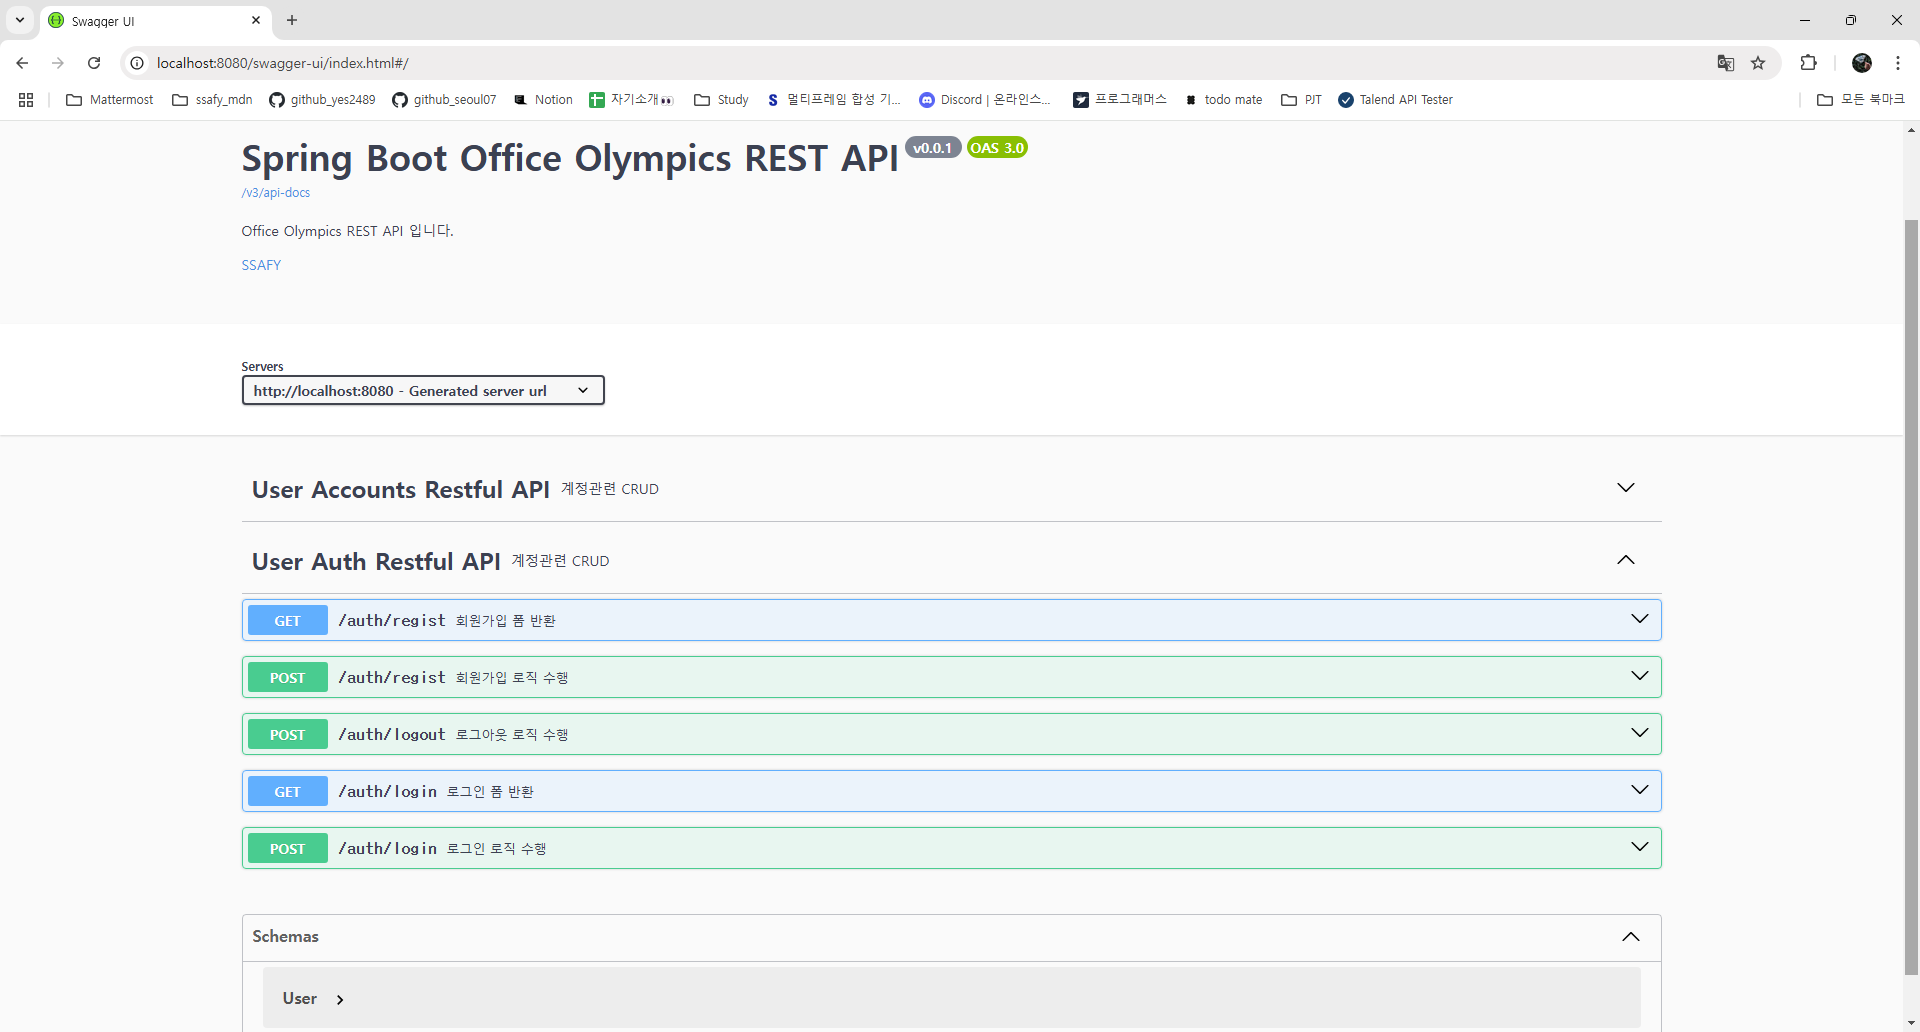
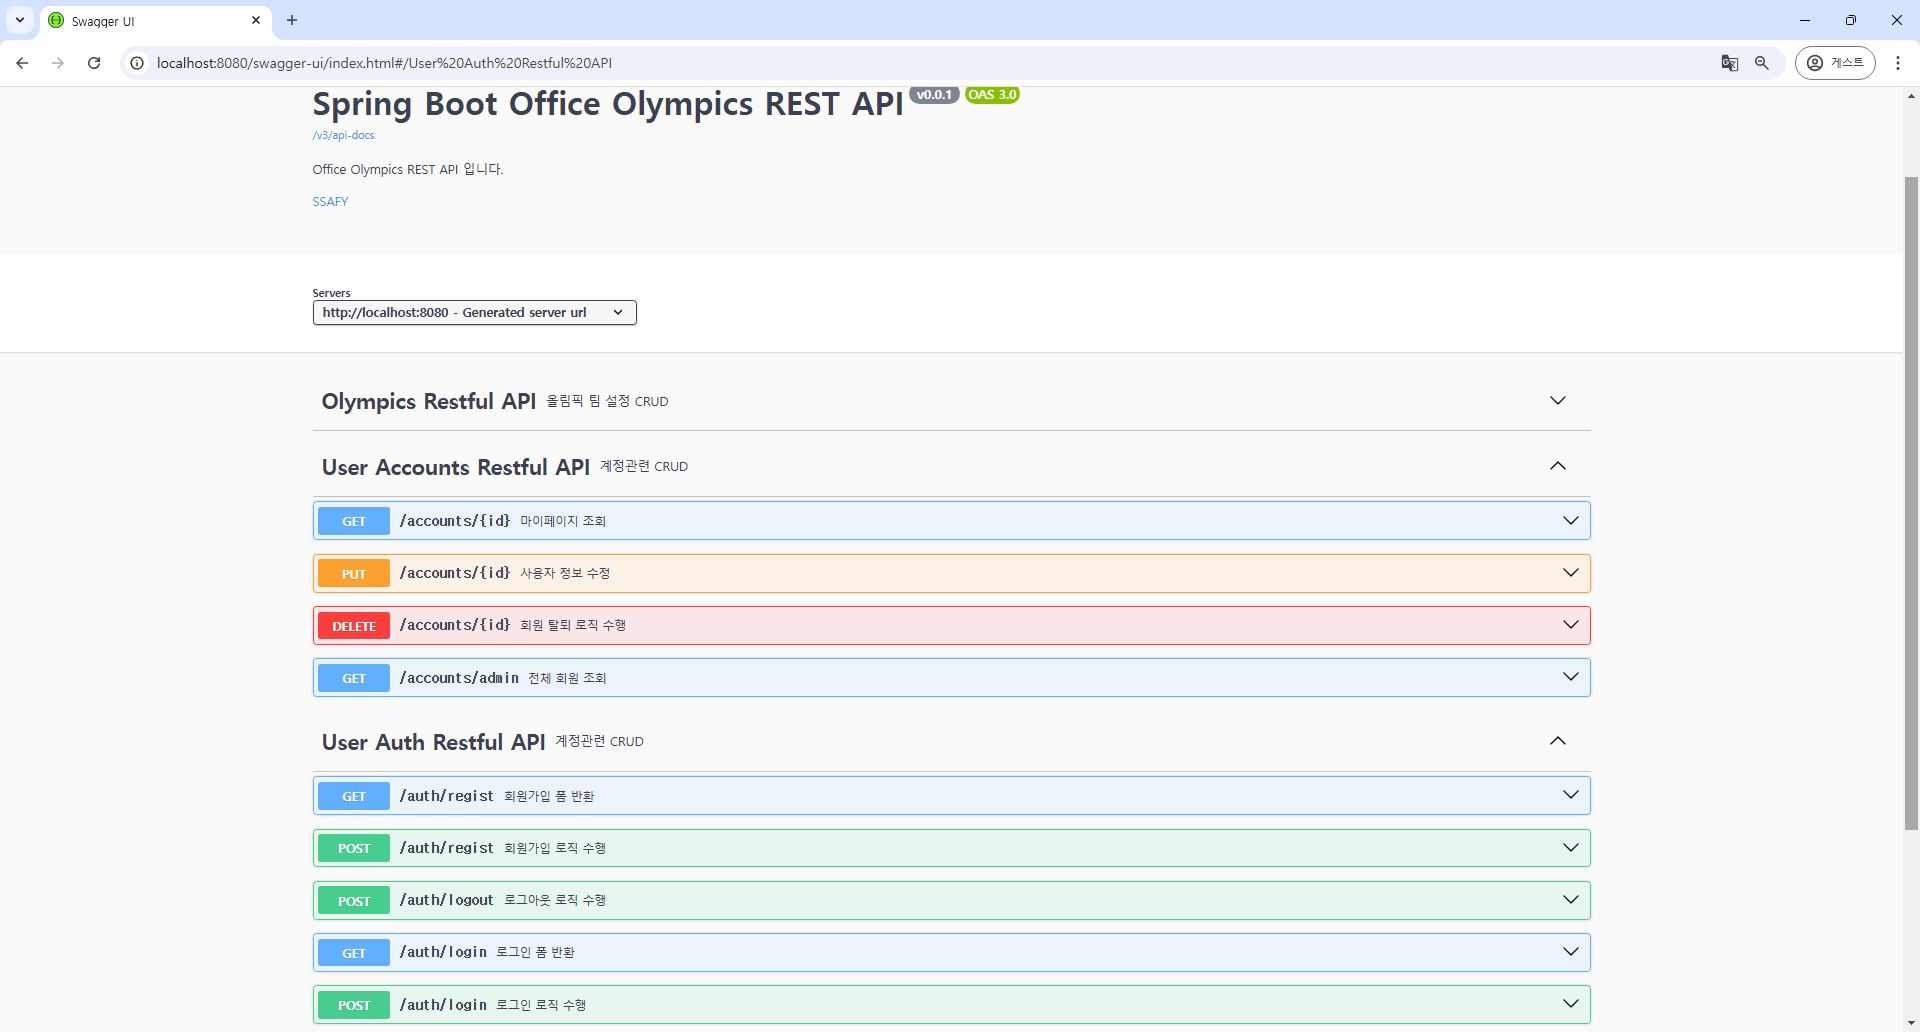
Docs: Olympics 기능 Swagger 문서 추가
Olympics 기능에 대한 Swagger 문서를 추가하여 API 명세를 작성했습니다.

개발 및 테스트 과정에서 API 사용을 용이하게 하기 위한 문서화 작업입니다.

diff --git a/project/OfficeOlympics/src/main/java/com/olympics/mvc/controller/OlympicsController.java b/project/OfficeOlympics/src/main/java/com/olympics/mvc/controller/OlympicsController.java
@@ -19,6 +19,7 @@ import com.olympics.mvc.model.dto.OlympicsSetup;
 import com.olympics.mvc.model.dto.Player;
 import com.olympics.mvc.model.service.PlayerService;
 
+import io.swagger.v3.oas.annotations.Operation;
 import io.swagger.v3.oas.annotations.tags.Tag;
 import jakarta.servlet.http.HttpSession;
 
@@ -36,6 +37,7 @@ public class OlympicsController {
 	
 	// 올림픽 팀 생성 및 설정
     @PostMapping("/team")
+    @Operation(summary = "올림픽 팀 생성 로직", description = "올림픽 팀 이름, 멤버 이름을 json형식으로 전송하여 팀 생성 후 멤버를 추가합니다.")
     public ResponseEntity<String> generateOlympics(@RequestBody OlympicsSetup setup, HttpSession session) {
         try {
         	System.out.println(session.getAttribute("loginUserId"));
@@ -75,6 +77,7 @@ public class OlympicsController {
 	
     // 특정 올림픽 팀의 플레이어 조회
     @GetMapping("/team/{olympic_id}")
+    @Operation(summary = "특정 올림픽 팀의 플레이어 조회", description = "올림픽 id 값을 통해 해당 올림픽 내의 플레이어를 조회합니다.")
     public ResponseEntity<?> getPlayers(@PathVariable("olympic_id") int olympicId) {
         try {
         	// 올림픽 ID에 속한 플레이어 목록 조회
@@ -94,6 +97,7 @@ public class OlympicsController {
 	
     // 올림픽 팀 삭제
     @DeleteMapping("/team/{olympic_id}")
+    @Operation(summary = "올림픽 팀 삭제", description = "session에 등록된 userId를 대조하여 해당 userId가 생성한 팀일 경우에만 팀을 삭제합니다.")
     public ResponseEntity<String> deleteOlympics(@PathVariable("olympic_id") int olympicsId, HttpSession session) {
         try {
         	

diff --git a/project/OfficeOlympics/src/main/java/com/olympics/mvc/model/dto/Player.java b/project/OfficeOlympics/src/main/java/com/olympics/mvc/model/dto/Player.java
@@ -1,6 +1,8 @@
 package com.olympics.mvc.model.dto;
 
-// players, olympics table
+import io.swagger.v3.oas.annotations.media.Schema;
+
+@Schema(description = "Player DTO")
 public class Player {
 	int olympicsId; // 참여한 올림픽 id
 	int playerId; // 플레이어 id 
@@ -13,8 +15,7 @@ public class Player {
 	}
 	
 	// 전체 생성자
-	public Player(int olympicsId, int playerId, String playerName,
-			int totalScore, String regDate) {
+	public Player(int olympicsId, int playerId, String playerName, int totalScore, String regDate) {
 		super();
 		this.olympicsId = olympicsId;
 		this.playerId = playerId;

diff --git a/project/OfficeOlympics/src/main/java/com/olympics/mvc/model/dto/OlympicsSetup.java b/project/OfficeOlympics/src/main/java/com/olympics/mvc/model/dto/OlympicsSetup.java
@@ -2,7 +2,9 @@ package com.olympics.mvc.model.dto;
 
 import java.util.List;
 
-// Olympics 팀 Setting
+import io.swagger.v3.oas.annotations.media.Schema;
+
+@Schema(description = "Olympics Team Setting DTO")
 public class OlympicsSetup {
 	
 	private int olympicsId;

diff --git a/backend_summaries/Olympics.md b/backend_summaries/Olympics.md
@@ -7,6 +7,10 @@
 
 ## 주요 코드 구조 및 로직
 
+### Swagger API 이미지
+
+![be_olympics.png](../media/backend/be_olympics.png)
+
 - **올림픽 팀 관리**: `OlympicsController`와 `PlayerService`를 통해 올림픽 팀을 생성, 조회, 삭제할 수 있는 기능이 구현되어 있습니다.
 - **데이터베이스 연동**: `PlayerDao`와 `PlayerMapper.xml`을 이용해 MyBatis로 데이터베이스와 상호작용하며, `Player` 및 `OlympicsSetup` 객체와 관련된 데이터 CRUD 작업을 수행합니다.
 - **DTO 및 서비스 계층 구성**: `OlympicsSetup` 및 `Player` DTO를 통해 데이터 구조를 정의하며, `PlayerServiceImpl`을 통해 서비스 계층에서 비즈니스 로직을 처리합니다.
